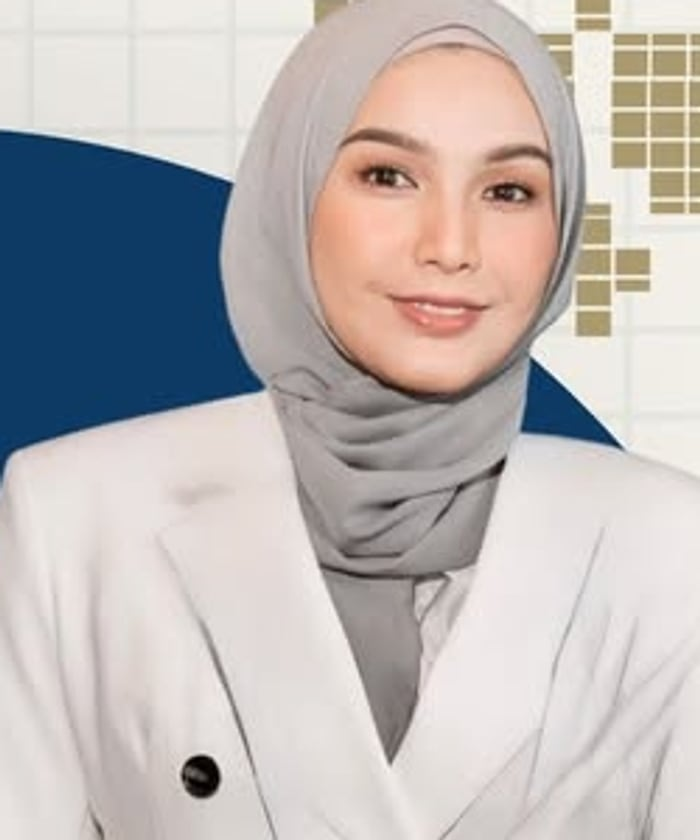
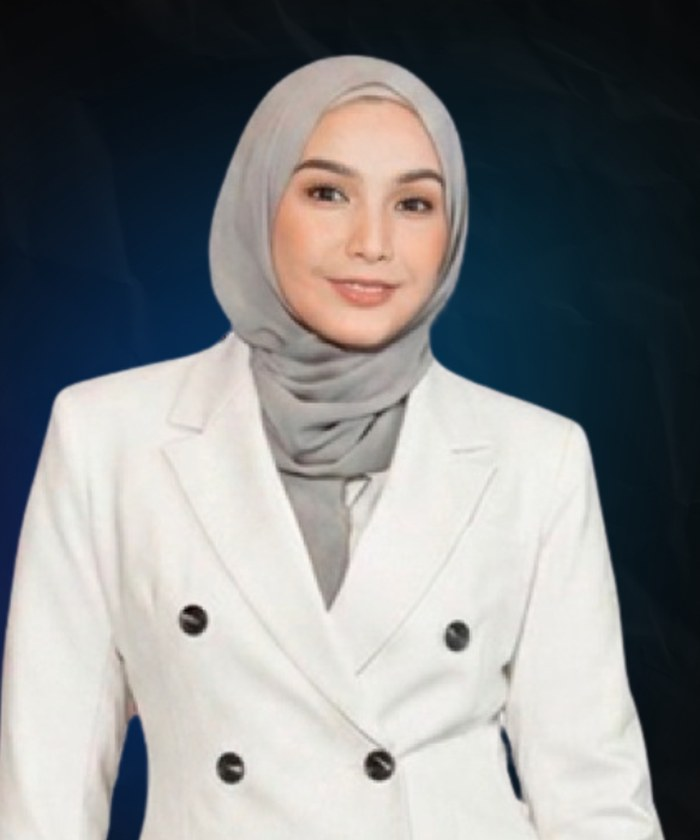
Use the client's own photographs of H.E. Ruzina Hasan and the Emcee
Both came from the client named, so they are no longer the order-matched
guesses the launch check holds for; five photographs still are.

diff --git a/frontend/src/data/editions/2026/speakers.ts b/frontend/src/data/editions/2026/speakers.ts
@@ -67,8 +67,7 @@ export const speakers: Speaker[] = [
       "zh": "",
       "ta": ""
     },
-    "role": "speaker",
-    "photoConfirmed": false
+    "role": "speaker"
   },
   {
     "id": "syahredzan-johan",

diff --git a/backend/config/speakers.php b/backend/config/speakers.php
@@ -58,8 +58,8 @@ return [
             'name' => 'H.E. Ruzina Hasan',
             'designation' => ['en' => 'Acting Deputy British High Commissioner to Malaysia', 'ms' => 'Pemangku Timbalan Pesuruhjaya Tinggi British ke Malaysia', 'zh' => '英国驻马来西亚代理副高级专员', 'ta' => 'மலேசியாவுக்கான பிரிட்டிஷ் பதில் துணை உயர் ஸ்தானிகர்'],
             'organisation' => 'British High Commission Kuala Lumpur',
+            // Sent by the client on 23 Sept 2026, named, so not a guess.
             'portrait' => '/portraits/ruzina-hasan.jpg',
-            'photo_confirmed' => false,
             'bio' => $none,
             'role' => 'speaker',
         ],
@@ -101,7 +101,7 @@ return [
             // "Committee Member" is printed on the photograph the client sent.
             'designation' => ['en' => 'Committee Member', 'ms' => 'Ahli Jawatankuasa', 'zh' => '委员会成员', 'ta' => 'குழு உறுப்பினர்'],
             'organisation' => 'Chevening Alumni Malaysia',
-            // Cropped from the promotional graphic, the only one with a name on it.
+            // Sent by the client on 23 Sept 2026 as the Emcee's photograph.
             'portrait' => '/portraits/nurfarahanim-che-mansor.jpg',
             'bio' => $none,
             'role' => 'mc',
